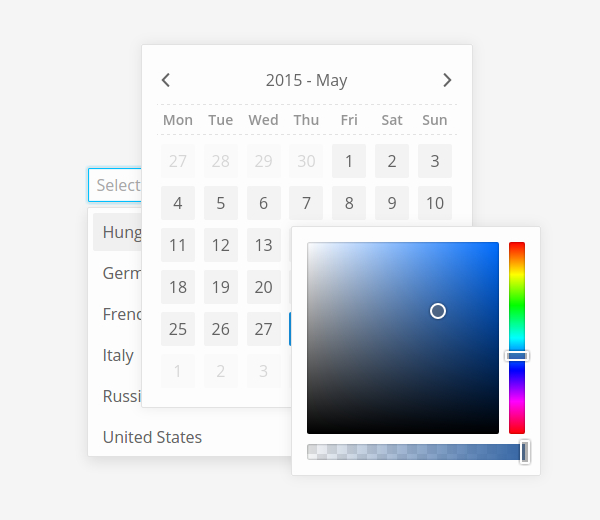
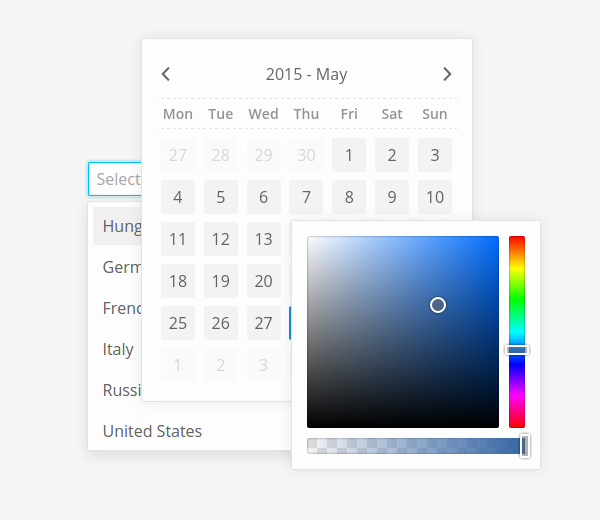
Added FileInput demo and reference.

diff --git a/stylesheets/main.scss b/stylesheets/main.scss
@@ -174,6 +174,10 @@ ui-reference-demo {
       min-width: 240px;
     }
 
+    ui-file-input {
+      margin-bottom: 10px;
+    }
+
     ui-chooser {
       min-width: 300px;
     }
